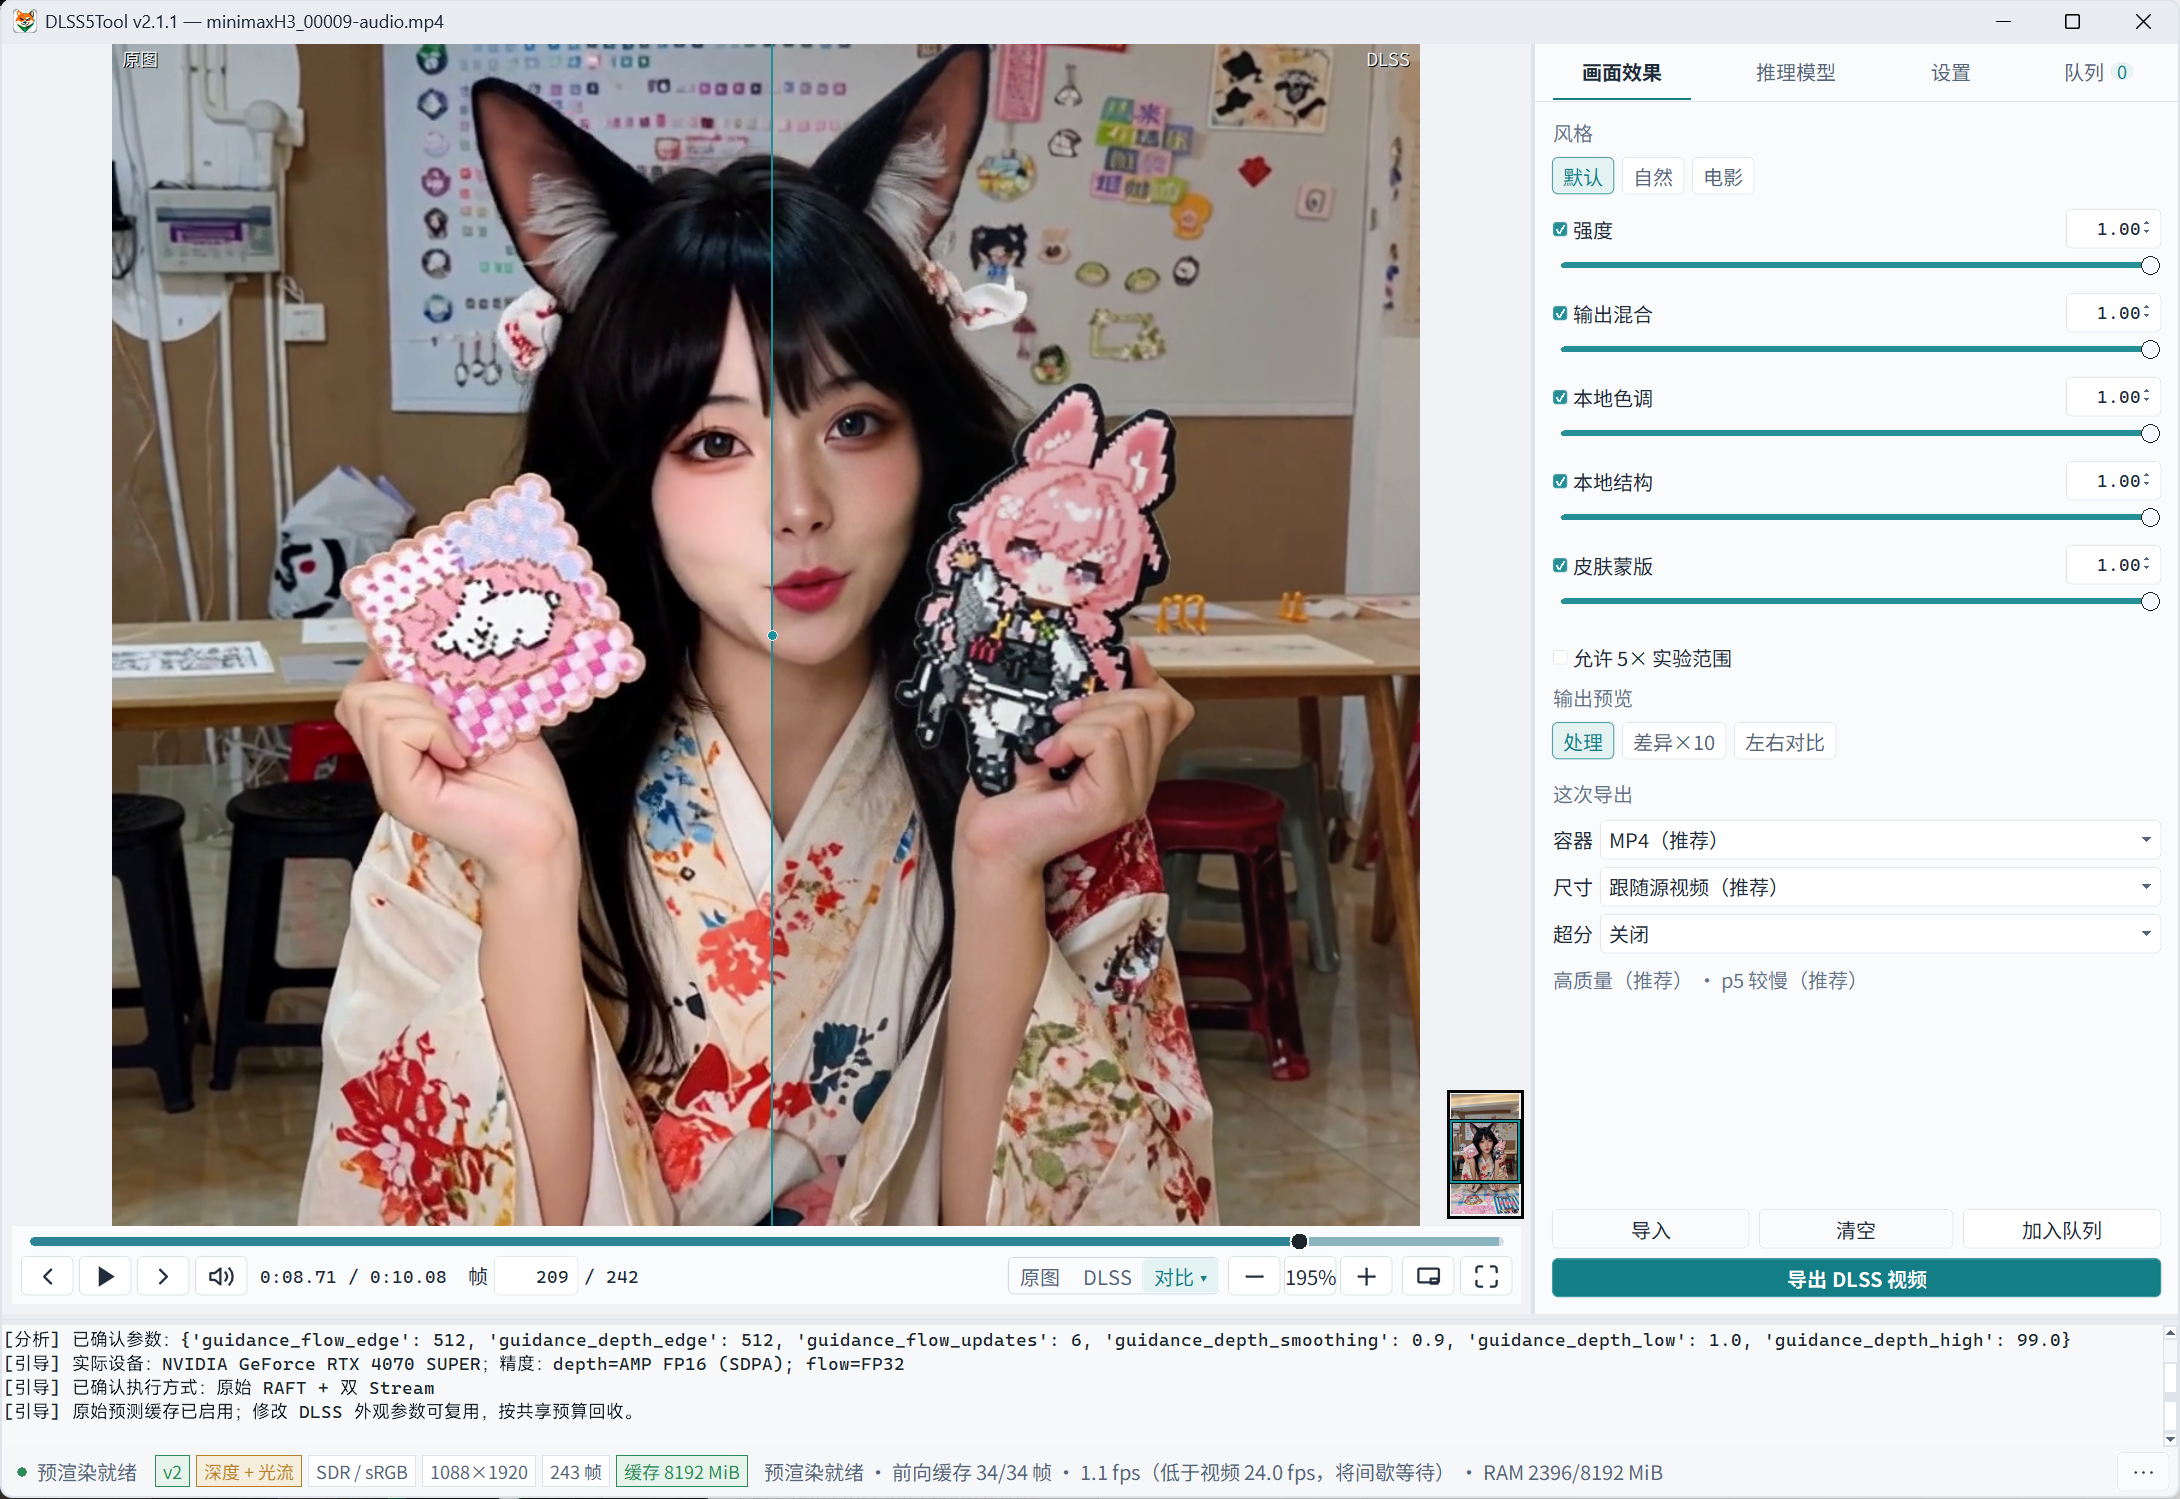
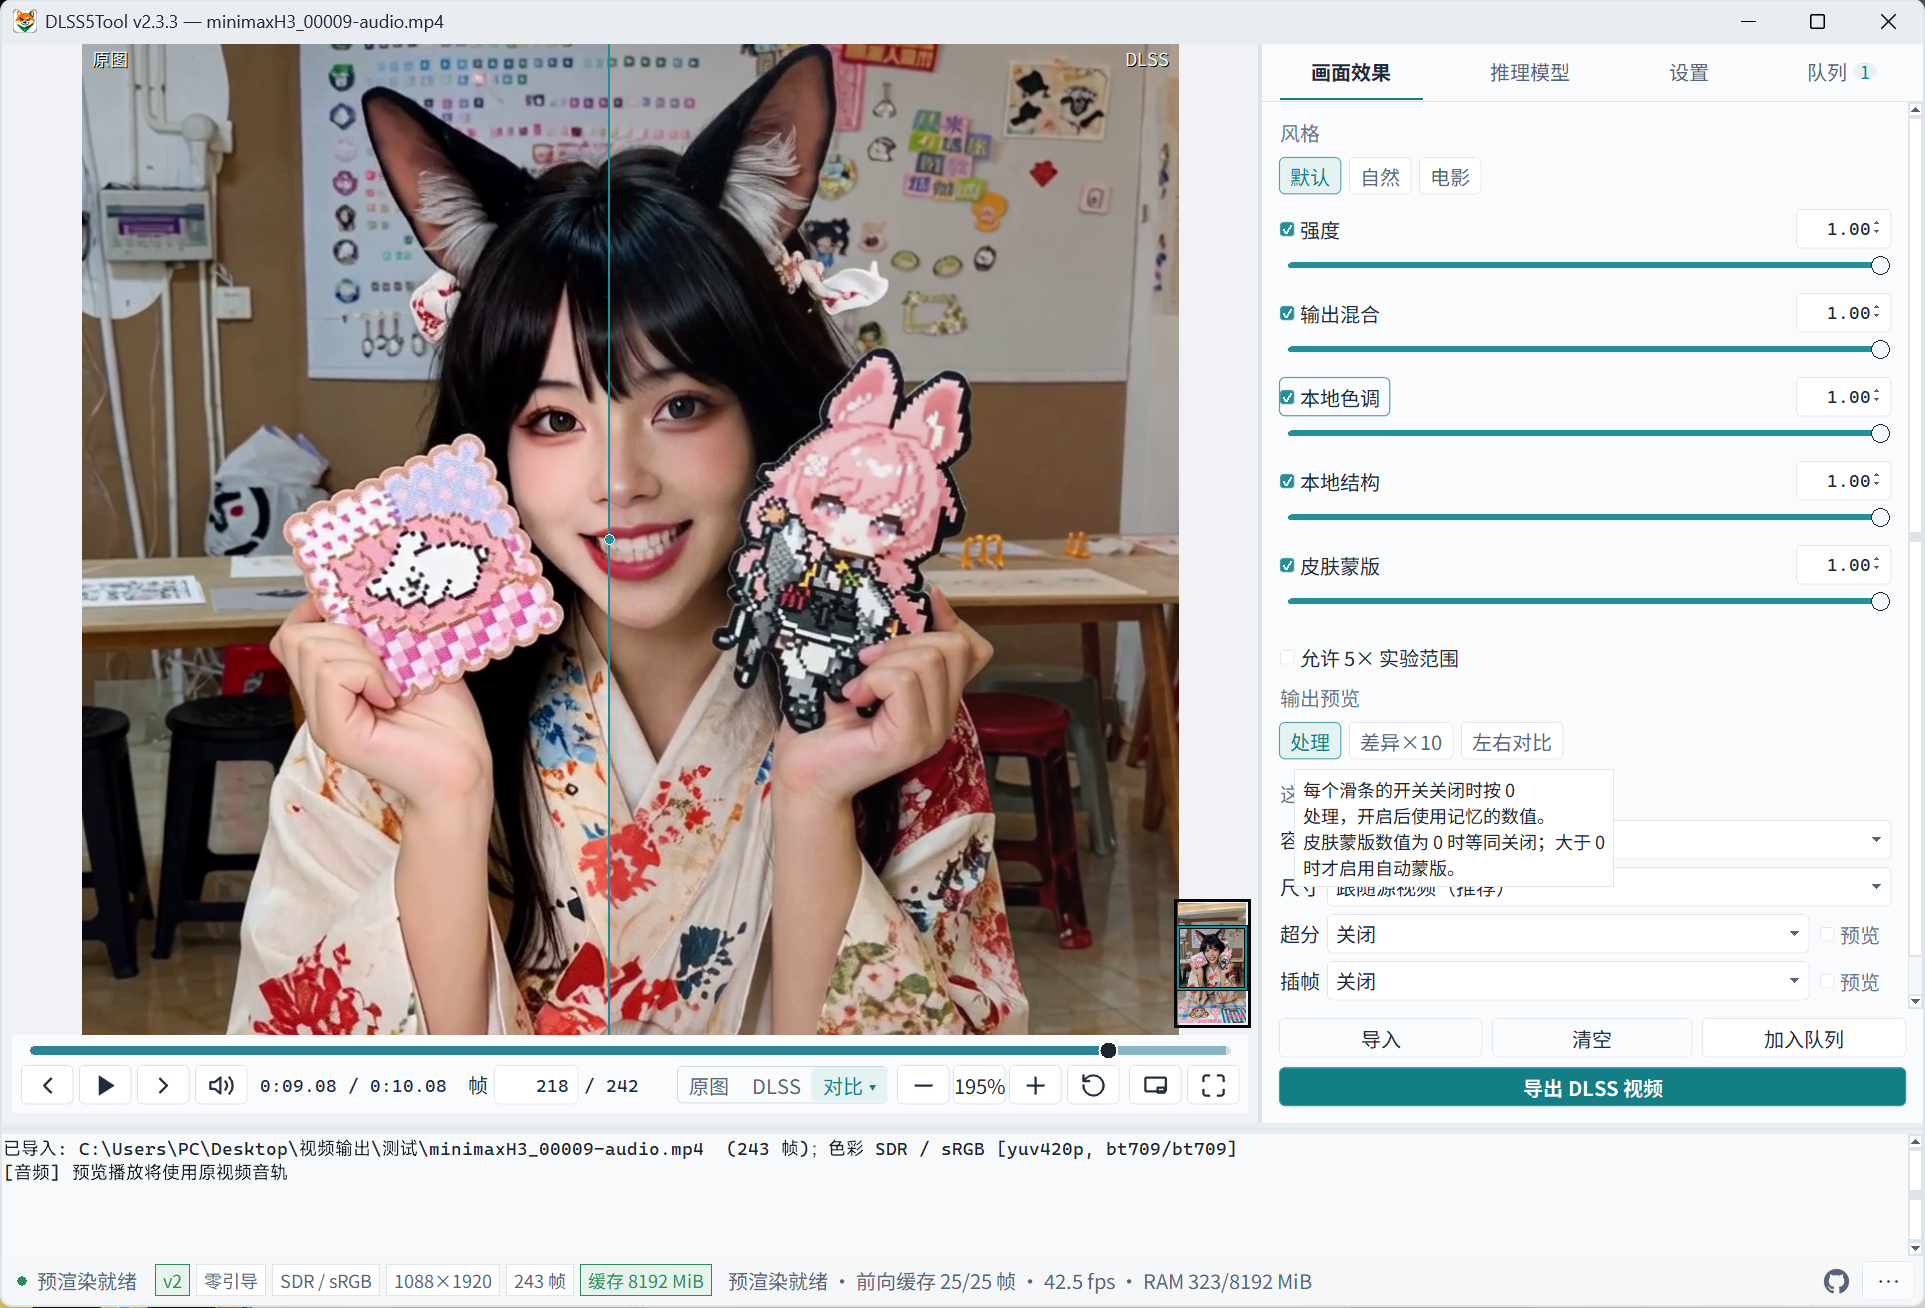
update

diff --git a/README.en.md b/README.en.md
@@ -24,26 +24,27 @@
 ## In-app preview
 
 <p align="center">
-  <a href="img/03.png"><img src="img/03.png" alt="DLSS5Tool showing the original/DLSS split comparison, processing controls, and preview cache status" width="760"></a>
+  <a href="https://www.bilibili.com/video/BV1yhaN6uEWB"><img src="assets/readme-video-cover.png" alt="DLSS5Tool Bilibili introduction video cover; click to watch" width="760"></a>
 </p>
 
-<p align="center"><sub>Application screenshot from v2.1.1</sub></p>
+<p align="center"><a href="https://www.bilibili.com/video/BV1yhaN6uEWB">▶ Watch the introduction on Bilibili</a></p>
+
+<p align="center">
+  <a href="https://www.bilibili.com/video/BV1yhaN6uEWB"><img src="img/03.png" alt="DLSS5Tool in-app preview; click to watch the introduction on Bilibili" width="760"></a>
+</p>
+
+<p align="center"><sub>Application screenshot from v2.3.3</sub></p>
 
 ## Features
 
 DLSS5Tool uses **DLSS 5 Neural Rendering** to enhance local videos and images. No game engine integration is needed.
 
-- **Image enhancement:** Default, Natural, and Cinema styles with strength, tone, structure, and skin-mask controls.
-- **2× / 4× super resolution:** Upscale with RTX Video before enhancement, or process at the original size.
-- **Frame interpolation:** Export at 2× / 3× / 4×. 3× / 4× are experimental and may show motion errors. Super resolution and interpolation each have a preview switch, off by default.
-- **Interactive comparison:** Compare the true original with enhanced output using a draggable wipe, side-by-side views, zoom, frame stepping, fullscreen, or a detachable preview. Active upscale and interpolation multipliers are shown, and display interactions keep pre-caching continuous.
-- **Batch export:** Mix images, videos, and image sequences with independent settings per item. Drag to select multiple items, use batch context menus and shortcuts, undo removal, and hover over long filenames for full paths. Export MP4 / MKV / MOV video and preserve compatible source audio.
-- **Image sequences to video:** Import consecutively numbered, same-size images as one task, set the source frame rate, then enhance, upscale, or interpolate them into a video without audio. Supports SDR PNG/JPG; current source also supports PQ / HLG HDR PNG sequences that meet the input requirements.
-- **HDR / GPU export:** High-precision HDR10 / HLG processing and 10-bit export. Eligible configurations use GPU color conversion and pass enhancement and interpolated frames directly from GPU memory to the encoder, reducing CPU transfers.
-- **Export progress and diagnostics:** Track timestamp scanning before long-video exports. Failed or cancelled GPU exports preserve existing output files; Diagnostics show effective settings and recent export information.
-- **Optical flow guidance:** Estimate inter-frame motion for temporal guidance, for more stable pictures and more accurate lighting.
-- **DLSS render GPU:** Uses a high-performance NVIDIA GPU by default. If the display is on an iGPU, DLSS still runs on the NVIDIA GPU. Multi-GPU systems can pick a device in Settings.
-- **File-level updates:** After installing a release that includes the update helper, **About → Check for updates** can download only changed files.
+- **Enhancement and comparison:** Three styles with strength and detail controls; compare against the original with a wipe, side-by-side view, or frame stepping.
+- **Upscaling and interpolation:** RTX Video 2× / 4× upscaling; export video with 2× / 3× / 4× interpolation (3× / 4× are experimental).
+- **Batch and image sequences:** Queue images and videos with settings per item; turn consecutively numbered images into video.
+- **HDR and GPU export:** HDR10 / HLG 10-bit output, with GPU acceleration when supported.
+- **Optical flow guidance:** Optional RAFT / NVOFA motion estimates provide temporal input for video enhancement.
+- **GPU and updates:** Select a high-performance NVIDIA GPU by default, with multi-GPU selection, diagnostics export, and file-level updates.
 
 The interface supports Simplified Chinese / English and light / dark themes. Change the language under **More → Language**, then restart the app.
 
@@ -83,7 +84,7 @@ In these screenshots, RAFT shows more coherent subject outlines and large motion
 
 ### Measurements
 
-Test setup: RTX 4070 SUPER 12 GB / driver 616.64. Analysis long edge 512; RAFT-Large 6 updates / FP32; NVOFA SLOW / 1×1 grid / temporal hints off. Same DLSS v2 settings, source-resolution SDR, cache off, fallback forbidden. Each clip/backend ran three times with swapped order; values below are medians.
+These measurements were taken on 2026-09-10 in the specified setup; performance may differ with other media or settings: RTX 4070 SUPER 12 GB / driver 616.64. Analysis long edge 512; RAFT-Large 6 updates / FP32; NVOFA SLOW / 1×1 grid / temporal hints off. Same DLSS v2 settings, source-resolution SDR, cache off, fallback forbidden. Each clip/backend ran three times with swapped order; values below are medians.
 
 | Clip | RAFT total time (effective fps) | NVOFA total time (effective fps) | NVOFA time reduction |
 | --- | ---: | ---: | ---: |
@@ -122,13 +123,13 @@ Get the [portable release](https://github.com/banbanzhige/DLSS5Tool/releases/lat
 
 ### 2. Select the runtime for your GPU
 
-Confirm your GPU model first, then download the matching runtime from [Releases](https://github.com/banbanzhige/DLSS5Tool/releases/tag/zip).
+Confirm your GPU model first. If you need a replacement runtime, use the separate [zip download page](https://github.com/banbanzhige/DLSS5Tool/releases/tag/zip):
 
 | GPU | Setup |
 | --- | --- |
 | RTX 40 series | Use the bundled default runtime |
-| RTX 30 series | Download `30系.zip` from the same Release and place the DLL as shown below |
-| RTX 50 series | Download `50系.zip` from the same Release and place the DLL as shown below |
+| RTX 30 series | Download `30系.zip` from the zip page and place the DLL as shown below |
+| RTX 50 series | Download `50系.zip` from the zip page and place the DLL as shown below |
 
 Download and extract the matching [nvngx_dlssnr.dll](https://github.com/banbanzhige/DLSS5Tool/releases/tag/zip). Close the app first, then place `nvngx_dlssnr.dll` from the matching archive into the `mods` folder beside the executable:
 
@@ -149,13 +150,11 @@ Start with the default settings and a short clip or single image. See the [user 
 
 ### 4. Turn an image sequence into video (optional)
 
-Choose **Queue → Add image sequence…** and select any frame, such as `frame_0001.png`. The app checks images in the same folder for matching prefixes, suffixes, and extensions, consecutive numbering, and identical dimensions, then adds the sequence as one queue item.
-
-HDR image-sequence support is in current source but not in the existing local candidate package. Check Releases for the packages actually available to download.
+Under **Queue → Add image sequence…**, select one frame, such as `frame_0001.png`, to include its full consecutively numbered sequence. Select multiple frames from the same sequence to import only the selected consecutive range. Other complete sequences in the folder are listed for you to opt in. Frames must have matching prefixes, suffixes, extensions, and dimensions.
 
 - **Set the source frame rate:** Use the actual source rate, then enable upscaling or interpolation as needed. The output video has no audio.
 - **Standard sequences:** Select **SDR / sRGB** for 8-bit, three-channel RGB PNG/JPG images.
-- **HDR sequences (current source):** Use full-range BT.2020, 16-bit, three-channel RGB PNG images already encoded as PQ or HLG, and select the matching **Input image color**. Enable HDR high-precision processing to retain HDR on export. A 16-bit image is not necessarily HDR; linear EXR, HDR TIFF, grayscale, and HDR sequences with alpha are unsupported.
+- **HDR sequences:** Use full-range BT.2020, 16-bit, three-channel RGB PNG images already encoded as PQ or HLG, and select the matching **Input image color**. Enable HDR high-precision processing to retain HDR on export. A 16-bit image is not necessarily HDR; linear EXR, HDR TIFF, grayscale, and HDR sequences with alpha are unsupported.
 
 Re-import if you move or modify the source images. See the [image-sequence guide](docs/USER_GUIDE.en.md#image-sequences) for full requirements.
 

diff --git a/docs/USER_GUIDE.en.md b/docs/USER_GUIDE.en.md
@@ -2,7 +2,7 @@
 
 [Back to product overview](../README.en.md) · [简体中文](USER_GUIDE.md)
 
-For installation and GPU selection, start with [Quick start](../README.en.md#quick-start). This guide covers v2.2.2.
+For installation and GPU selection, start with [Quick start](../README.en.md#quick-start). This guide covers detailed app usage.
 
 - [Controls and shortcuts](#controls-and-shortcuts)
 - [Optional optical flow](#optional-optical-flow)
@@ -37,7 +37,7 @@ Each queued job stores the settings active when it was added. Later adjustments 
 
 ### Image sequences
 
-Choose any frame through **Queue → Add image sequence**. Frames must have consecutive numbers, matching prefixes, suffixes, extensions and dimensions in the same folder. Set the source frame rate and **Input image color**. The sequence becomes one silent video job supporting enhancement, super-resolution and frame generation.
+Under **Queue → Add image sequence**, select one frame to include the full consecutively numbered sequence in its folder, or select multiple frames from the same sequence to import only the selected consecutive range. Other complete sequences in the folder are listed for you to opt in. Frames must have matching prefixes, suffixes, extensions and dimensions. Set the source frame rate and **Input image color**; each sequence becomes one silent video job supporting enhancement, super-resolution and frame generation.
 
 - **SDR / sRGB**: 8-bit, three-channel RGB PNG/JPG (default).
 - **HDR / PQ or HLG / BT.2020**: 16-bit, three-channel RGB PNG, already encoded with the selected transfer function. RGB values use the full 0–65535 range. The explicit selection defines interpretation; embedded ICC profiles are not automatically detected or converted.
@@ -64,7 +64,7 @@ mods/
   models/                   # User weight overrides
 ```
 
-A complete component carries its dependencies; end users do not separately install Python, PyTorch, or CUDA Toolkit. Supported GPU hardware and drivers are still required. The app never automatically downloads models, installs dependencies, or runs installers. Compatible `.pth` weights are replaceable; renaming an incompatible architecture does not make it compatible. See [component layout and discovery](../mods/README.md). Candidate full/add-on packages include RAFT weights, not depth weights.
+A complete component carries its dependencies; end users do not separately install Python, PyTorch, or CUDA Toolkit. Supported GPU hardware and drivers are still required. The app never automatically downloads models, installs dependencies, or runs installers. Compatible `.pth` weights are replaceable; renaming an incompatible architecture does not make it compatible. See [component layout and discovery](../mods/README.md). Full and add-on packages include RAFT weights, not depth weights.
 
 ### Activation and recovery
 
@@ -78,7 +78,7 @@ Both the analysis mode and tuning are saved. On restart, the previously enabled 
 
 A successful check does not guarantee enough VRAM for every source. Auto/GPU does not silently fall back to CPU; CPU must be selected explicitly with compatible settings.
 
-### Candidate defaults
+### Defaults for new users
 
 | Setting | Default |
 | --- | --- |

diff --git a/docs/USER_GUIDE.md b/docs/USER_GUIDE.md
@@ -2,7 +2,7 @@
 
 [返回项目首页](../README.md) · [English](USER_GUIDE.en.md)
 
-安装与显卡配置请先看[快速开始](../README.md#快速开始)。本文介绍 v2.2.2 的详细操作。
+安装与显卡配置请先看[快速开始](../README.md#快速开始)。本文介绍软件的详细操作。
 
 - [操作与快捷键](#操作与快捷键)
 - [可选光流](#可选光流)
@@ -35,7 +35,7 @@
 
 ### 图片序列
 
-在「队列 → 添加图片序列」选择任意一帧，程序会检查同目录、同前后缀与扩展名、连续编号且同尺寸的图片。设置原始帧率及「输入图片色彩」，整组图片作为一个无音轨视频任务处理，可使用增强、超分与插帧。
+在「队列 → 添加图片序列」只选择一帧时，程序会补全同目录、同前后缀与扩展名、连续编号且同尺寸的整组图片；同组多选时仅导入选中的连续范围。同目录其他完整序列会列出供勾选。设置原始帧率及「输入图片色彩」后，每组图片作为一个无音轨视频任务处理，可使用增强、超分与插帧。
 
 - **SDR / sRGB**：8 位、三通道 RGB PNG/JPG，默认选项。
 - **HDR / PQ 或 HLG / BT.2020**：16 位、三通道 RGB PNG。像素必须已使用对应的 PQ/HLG 编码，RGB 数值按全范围 0～65535 解释。程序使用你选择的色彩类型，不自动猜测或转换嵌入的 ICC 色彩配置。
@@ -62,7 +62,7 @@ mods/
   models/                   # 用户覆盖权重
 ```
 
-完整组件自带推理依赖，用户无需另装 Python、PyTorch 或 CUDA Toolkit；仍需支持的 GPU 和驱动。软件不自动下载模型、安装依赖或执行安装器。兼容 `.pth` 权重可以外置替换，其他架构不能只换文件名使用。组件布局与查找顺序见 [mods 说明](../mods/README.md)。本候选完整/附加包仅附 RAFT 权重，不附深度权重。
+完整组件自带推理依赖，用户无需另装 Python、PyTorch 或 CUDA Toolkit；仍需支持的 GPU 和驱动。软件不自动下载模型、安装依赖或执行安装器。兼容 `.pth` 权重可以外置替换，其他架构不能只换文件名使用。组件布局与查找顺序见 [mods 说明](../mods/README.md)。完整版／附加包仅附 RAFT 权重，不附深度权重。
 
 ### 启用与失败恢复
 
@@ -76,7 +76,7 @@ NVOFA 不需要光流权重和迭代。初始化失败会提示并尝试 RAFT（
 
 检查通过不代表所有素材都能满足显存要求。自动／GPU 不会静默回退 CPU；如需 CPU，请主动选择并使用兼容设置。
 
-### 本地候选默认参数
+### 新用户默认参数
 
 | 项目 | 默认值 |
 | --- | --- |

diff --git a/docs/release/RELEASE_NOTES_v2.3.2.md b/docs/release/RELEASE_NOTES_v2.3.2.md
@@ -1,0 +1,12 @@
+# v2.3.2 Release Notes
+
+## 新增
+
+- 图片序列可以多选导入。只点一张编号图时，会补全同目录里整段连续编号；同一组选中多张时，只导入这段连续范围。同目录里其他完整序列会列出来，默认不勾选。
+- 序列确认窗显示帧数、尺寸、色彩，以及按原始帧率计算的输出时长。窗口打开在主窗口中间。
+- 状态栏增加 GitHub 标记。关于页显示当前版本和 GitHub 上的最新版本，仓库与作者主页可以直接打开，也可以在这里检查更新。
+
+## 升级说明
+
+- 本版源码已打包为本地候选，尚未上传。增量包只覆盖上一个正式版本 v2.3.1 的轻量版和完整版。
+- 更早版本请使用整包，不要只替换 EXE。
